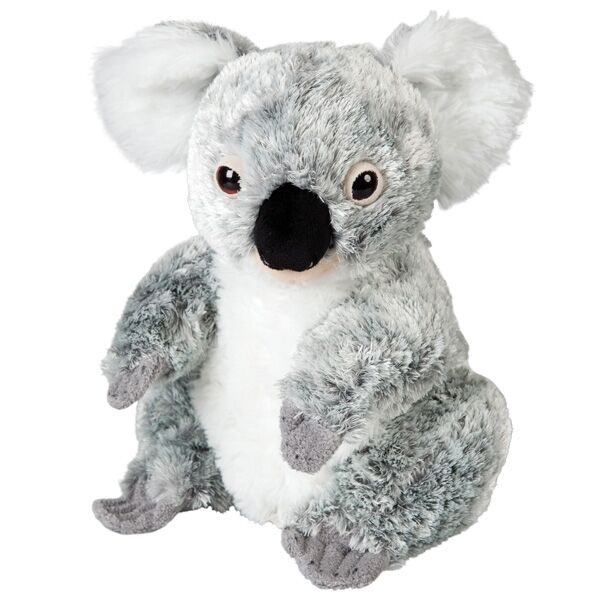
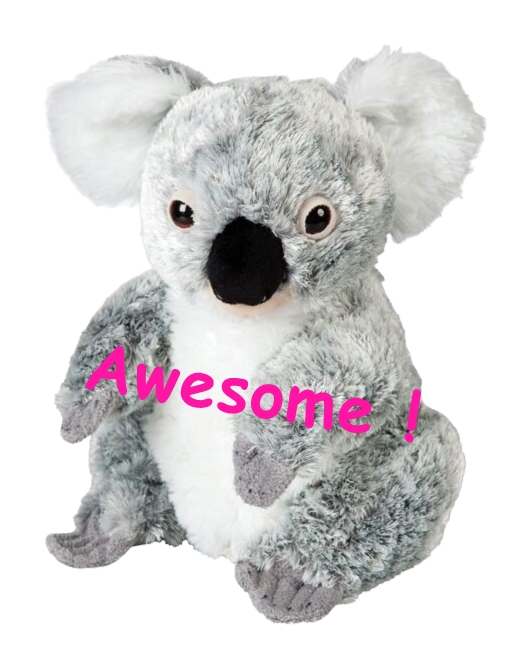
add text to award pic

diff --git a/src/index.css b/src/index.css
@@ -68,8 +68,8 @@ Global Styles
   box-sizing: border-box;
 }
 body {
-  font-family: -apple-system, BlinkMacSystemFont, 'Segoe UI', Roboto, Oxygen,
-    Ubuntu, Cantarell, 'Open Sans', 'Helvetica Neue', sans-serif;
+  font-family: -apple-system, BlinkMacSystemFont, "Segoe UI", Roboto, Oxygen,
+    Ubuntu, Cantarell, "Open Sans", "Helvetica Neue", sans-serif;
   background: var(--clr-grey-10);
   color: var(--clr-grey-1);
   line-height: 1.5;

diff --git a/src/times-table-practice/components/Popup.js b/src/times-table-practice/components/Popup.js
@@ -1,12 +1,12 @@
 import React from "react";
-import './Popup.css'
+import "./Popup.css";
 import logo from "../pictures/Koala.jpg";
 
 function Popup(props) {
   return props.trigger ? (
     <div className="popup">
       <div className="popup-inner">
-        <img className="img" alt="award picture"  src={logo} />        
+        <img className="img" alt="award picture" src={logo} />
         {props.children}
       </div>
     </div>
